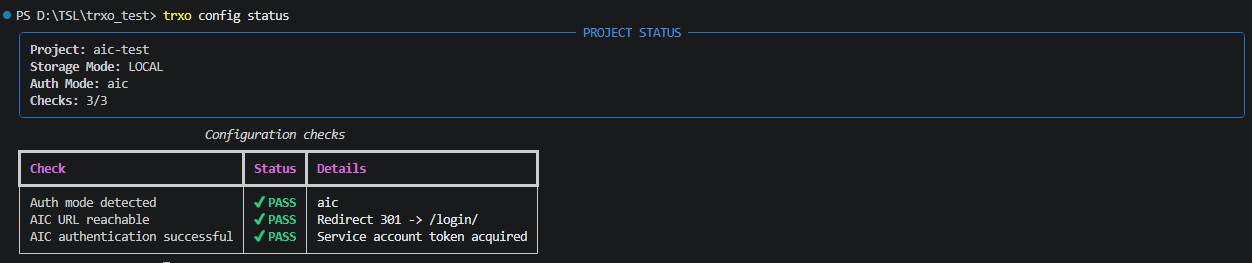
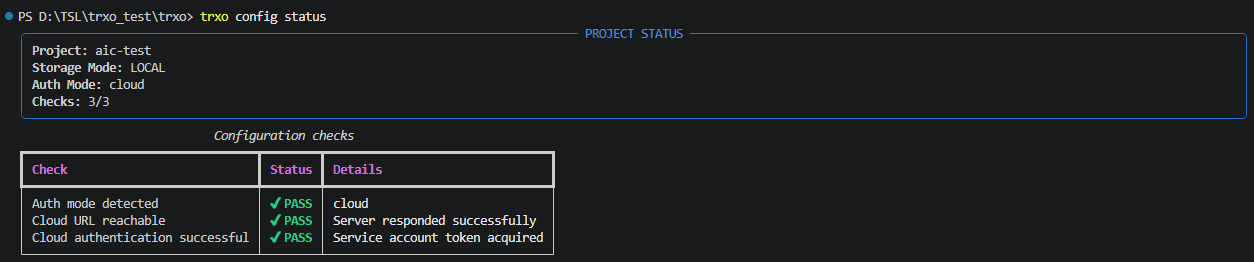
edit status command in usage guide

Changed region(s): [[0.0, 0.4885, 0.4673, 0.9771], [0.0, 0.0916, 0.9968, 0.458], [0.0, 0.0305, 0.2804, 0.0916]]

diff --git a/src/trxo/commands/config/status.py b/src/trxo/commands/config/status.py
@@ -119,7 +119,7 @@ class StatusChecker:
         if self.idm_url:
             self.auth_mode.append("idm")
         if self.aic_url:
-            self.auth_mode.append("aic")
+            self.auth_mode.append("cloud")
 
         self.add_result(
             "Auth mode detected",
@@ -331,7 +331,7 @@ class StatusChecker:
 
     def check_aic_url(self) -> None:
         if not self.aic_url:
-            self.add_result("AIC URL reachable", False, "No AIC URL configured")
+            self.add_result("Cloud URL reachable", False, "No Cloud URL configured")
             return
 
         try:
@@ -342,27 +342,27 @@ class StatusChecker:
                 detail = self.aic_url
                 if 300 <= resp.status_code < 400:
                     location = resp.headers.get("Location", "unknown")
-                    detail = f"Redirect {resp.status_code} -> {location}"
-                self.add_result("AIC URL reachable", True, detail)
+                    detail = "Server responded successfully"
+                self.add_result("Cloud URL reachable", True, detail)
             else:
                 self.add_result(
-                    "AIC URL reachable",
+                    "Cloud URL reachable",
                     False,
                     f"HTTP {resp.status_code} {resp.reason_phrase} for url {resp.url}",
                 )
         except Exception as e:
-            self.add_result("AIC URL reachable", False, str(e))
+            self.add_result("Cloud URL reachable", False, str(e))
 
     def check_aic_auth(self) -> None:
         try:
             self.am_token = self.token_manager.get_token(self.project_name)
             self.add_result(
-                "AIC authentication successful",
+                "Cloud authentication successful",
                 True,
                 "Service account token acquired",
             )
         except Exception as e:
-            self.add_result("AIC authentication successful", False, str(e))
+            self.add_result("Cloud authentication successful", False, str(e))
 
     def validate_aic_token(self) -> None:
         if not self.am_token:
@@ -377,7 +377,7 @@ class StatusChecker:
                 resp.raise_for_status()
         except Exception:
             self.add_result(
-                "AIC token valid", False, f"Failed to validate against {self.aic_url}"
+                "Cloud token valid", False, f"Failed to validate against {self.aic_url}"
             )
 
     def display(self) -> None:
@@ -426,9 +426,9 @@ class StatusChecker:
                 "IDM access unsuccessful: Check credentials or run 'trxo config setup'"
             )
         if "aic url" in normalized:
-            return "AIC URL unreachable: Verify AIC base URL and server running"
+            return "Cloud URL unreachable: Verify Cloud base URL and server running"
         if "aic authentication" in normalized:
-            return "AIC auth unsuccessful: Check SA ID/JWK or run 'trxo config setup'"
+            return "Cloud authentication unsuccessful: Check credentials or run 'trxo config setup'"
         if "auth mode" in normalized:
             return "Auth mode not detected: Run 'trxo config setup'"
         return ""
